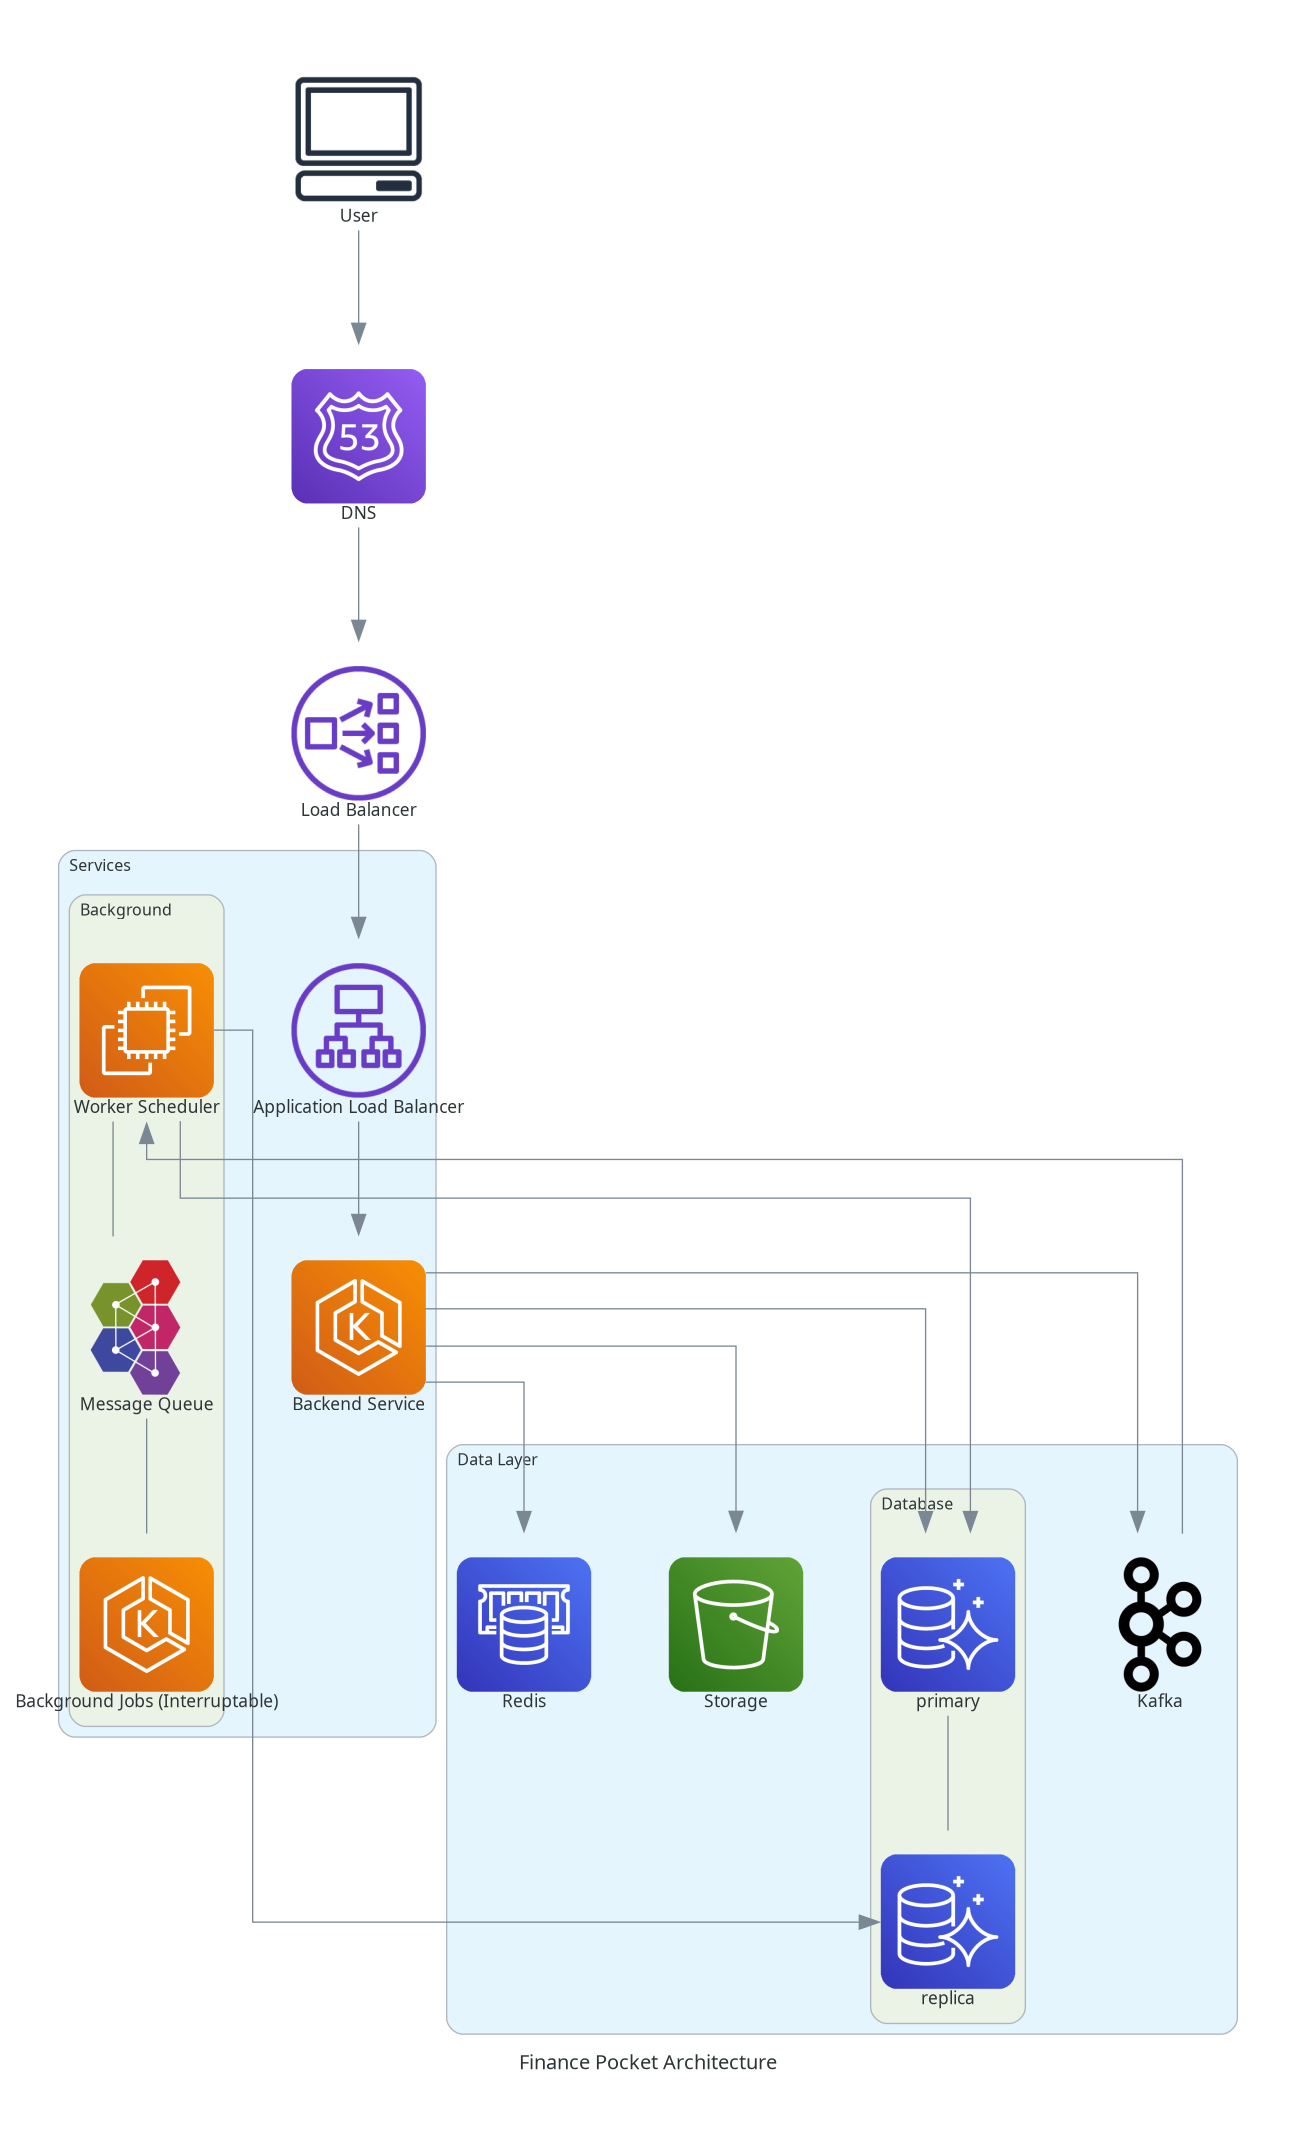
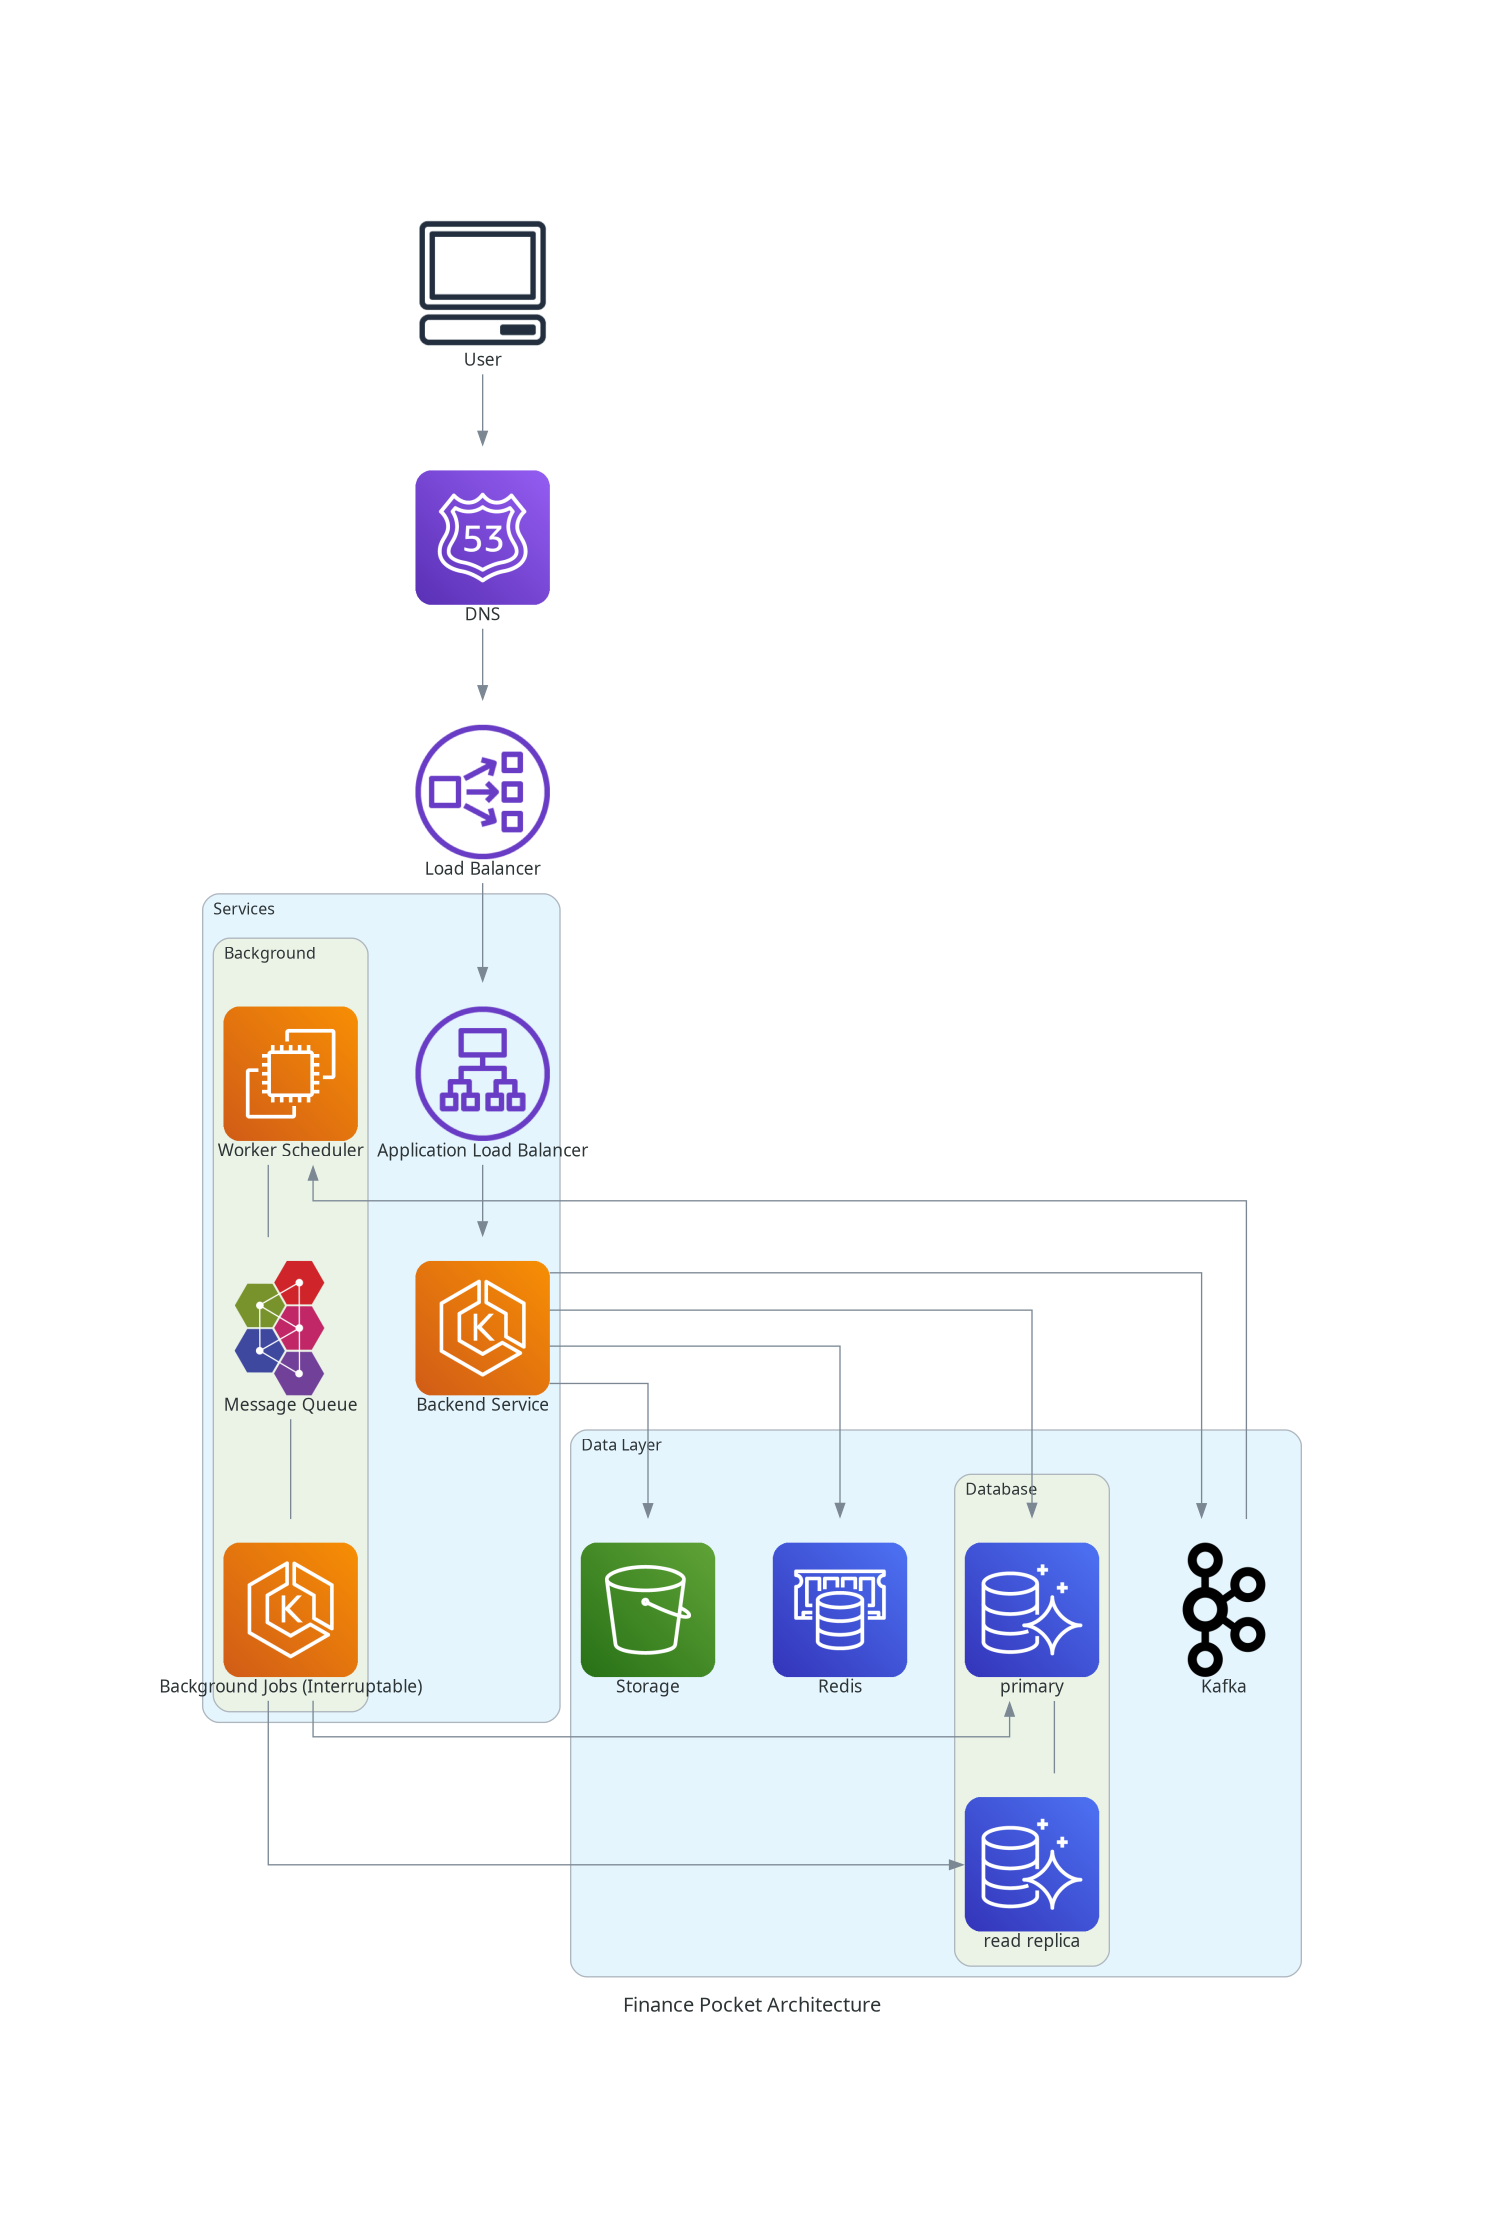
feat: remove style, set specific name, adjust eks permission

Changed region(s): [[0.0309, 0.3097, 0.9568, 0.9601], [0.216, 0.031, 0.3704, 0.2787]]

diff --git a/finance-pocket/cloud.py b/finance-pocket/cloud.py
@@ -9,12 +9,7 @@ from diagrams.aws.general import Client
 from diagrams.onprem.queue import Kafka, ActiveMQ
 
 
-with Diagram("Finance Pocket Architecture", show=False, direction="TB",
-             graph_attr={"pad": "0.5", "nodesep": "0.8", "ranksep": "1.2", "splines": "ortho"},
-             node_attr={"shape": "box", "style": "rounded"},
-             edge_attr={"arrowsize": "1.5"}):
-
-
+with Diagram("Finance Pocket Architecture", show=False, direction="TB", strict=True):
     nlb = NLB("Load Balancer")
 
     with Cluster("Services"):
@@ -33,8 +28,8 @@ with Diagram("Finance Pocket Architecture", show=False, direction="TB",
     with Cluster("Data Layer"):
         with Cluster("Database", direction="TB"):
             db_primary = Aurora("primary")
-            replica = Aurora("replica")
-            db_primary - replica
+            read_replica = Aurora("read replica")
+            db_primary - read_replica
 
         cache = ElastiCache("Redis")
         kafka = Kafka("Kafka")
@@ -44,8 +39,8 @@ with Diagram("Finance Pocket Architecture", show=False, direction="TB",
 
     api >> kafka >> background
 
-    background >> db_primary
-    background >> replica
+    celery >> read_replica
+    celery >> db_primary
 
     api >> db_primary
     api >> cache

diff --git a/README.md b/README.md
@@ -3,4 +3,4 @@ This repository contains various research documents and code scratches for perso
 ## Structure
 
 - `finance-pocket/` - Finance pocket management system research and design documents
-- `tiny-shortened/` - Tiny URL shortening service research and design documents
+- `tiny-shorten-url/` - Tiny URL shortening service research and design documents
